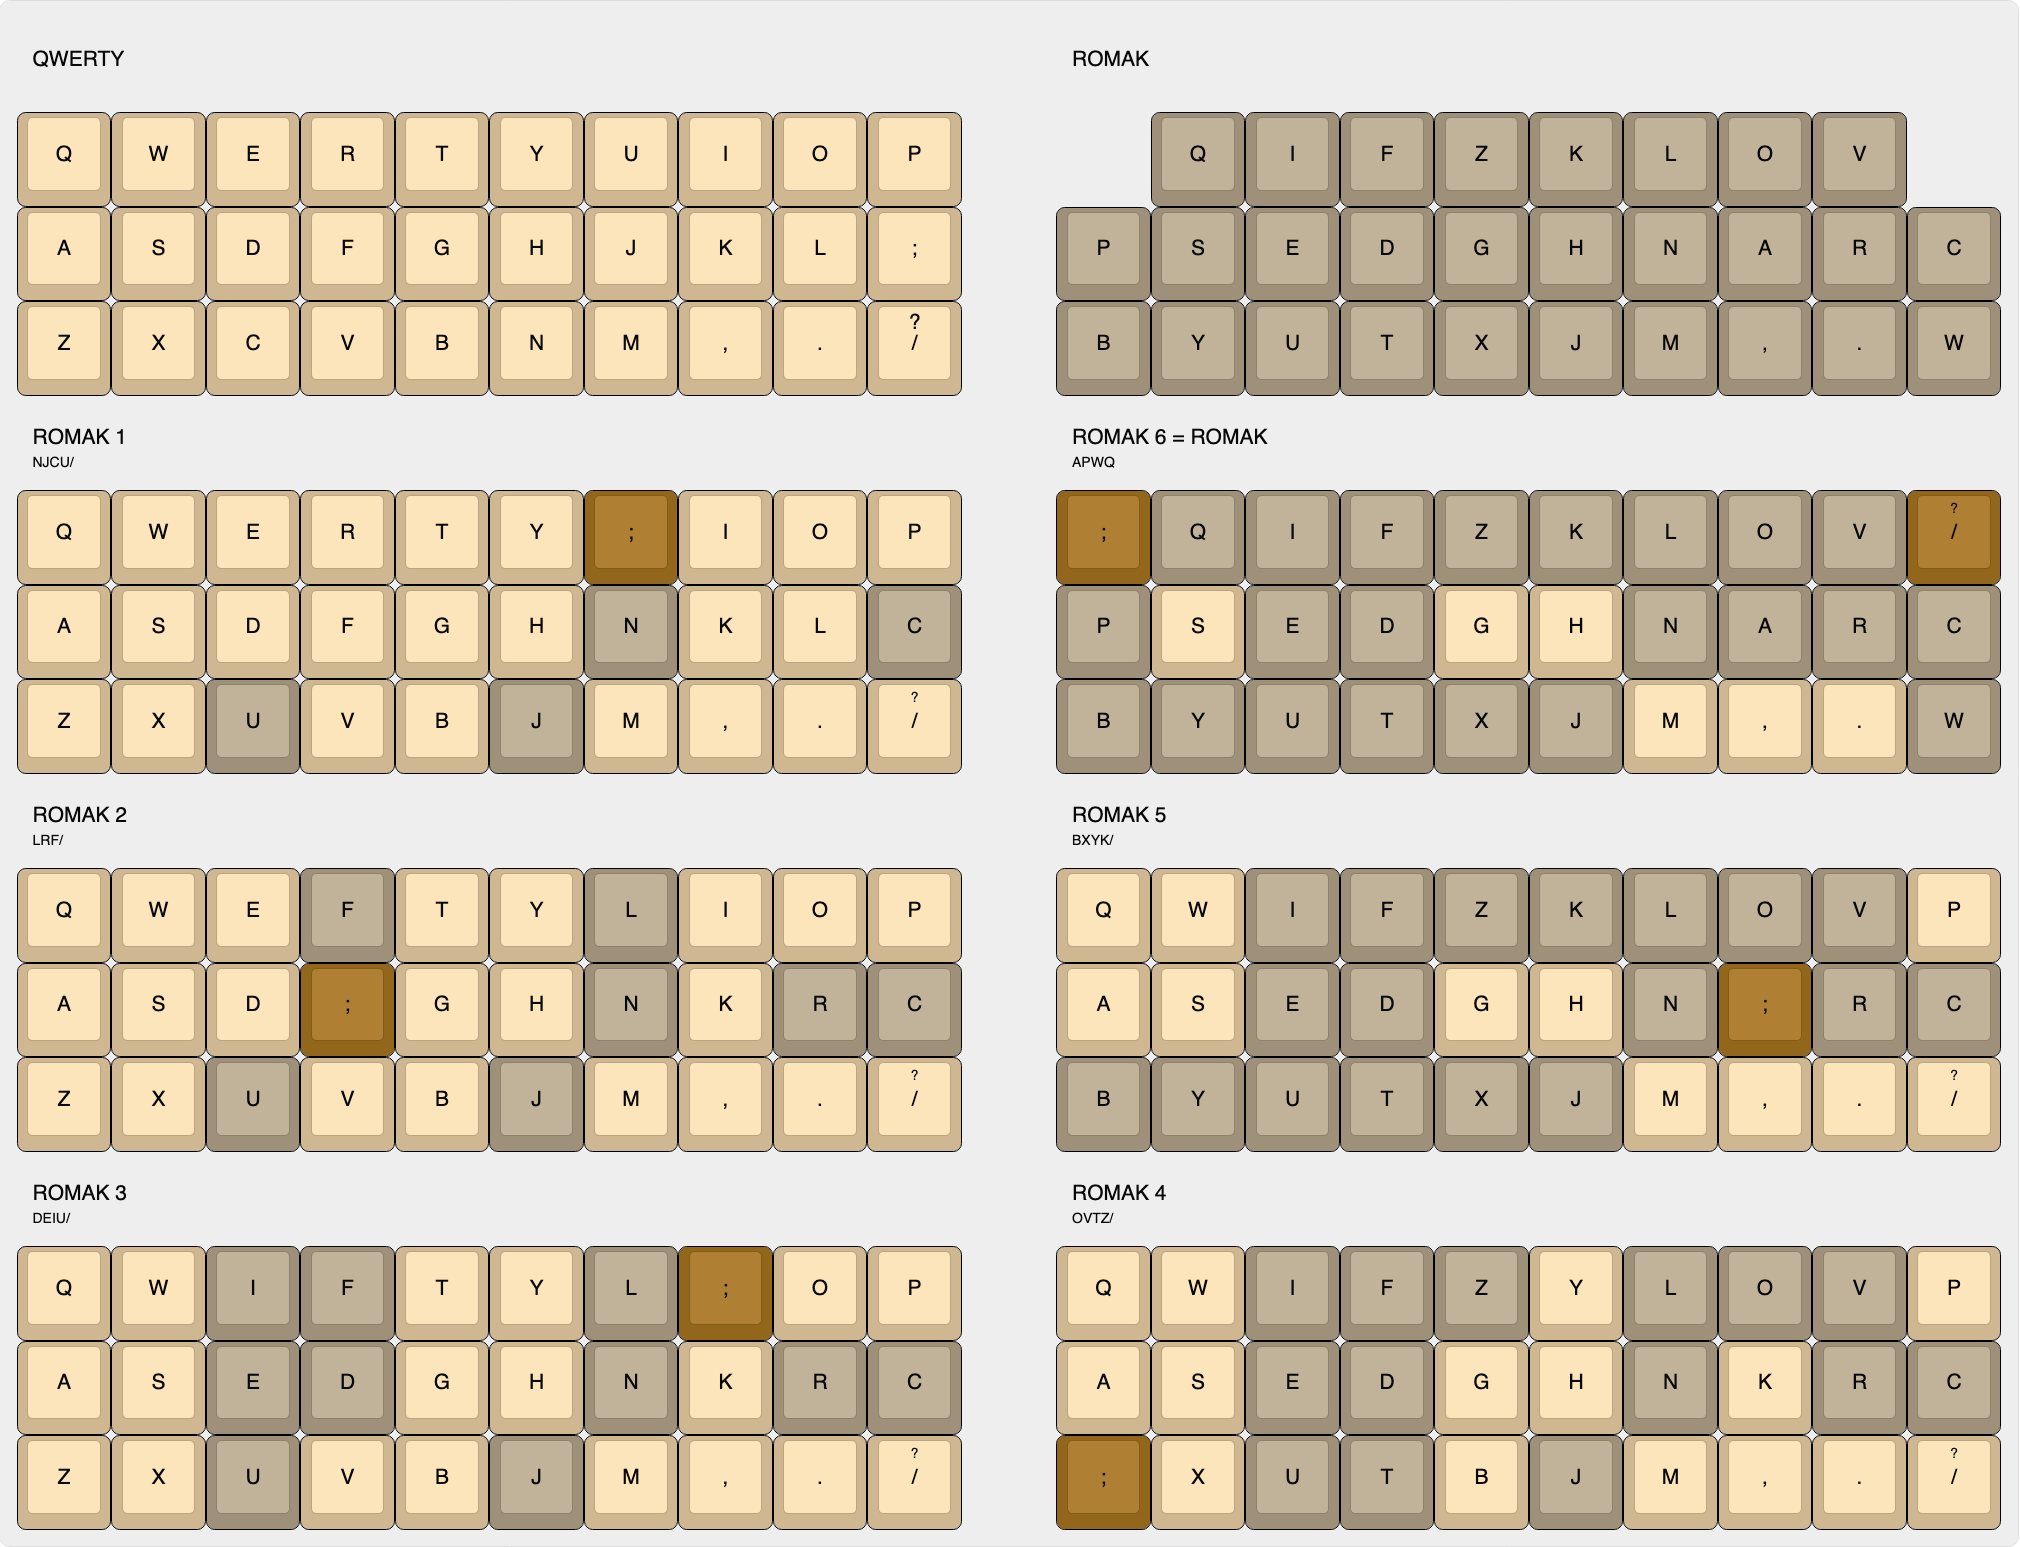
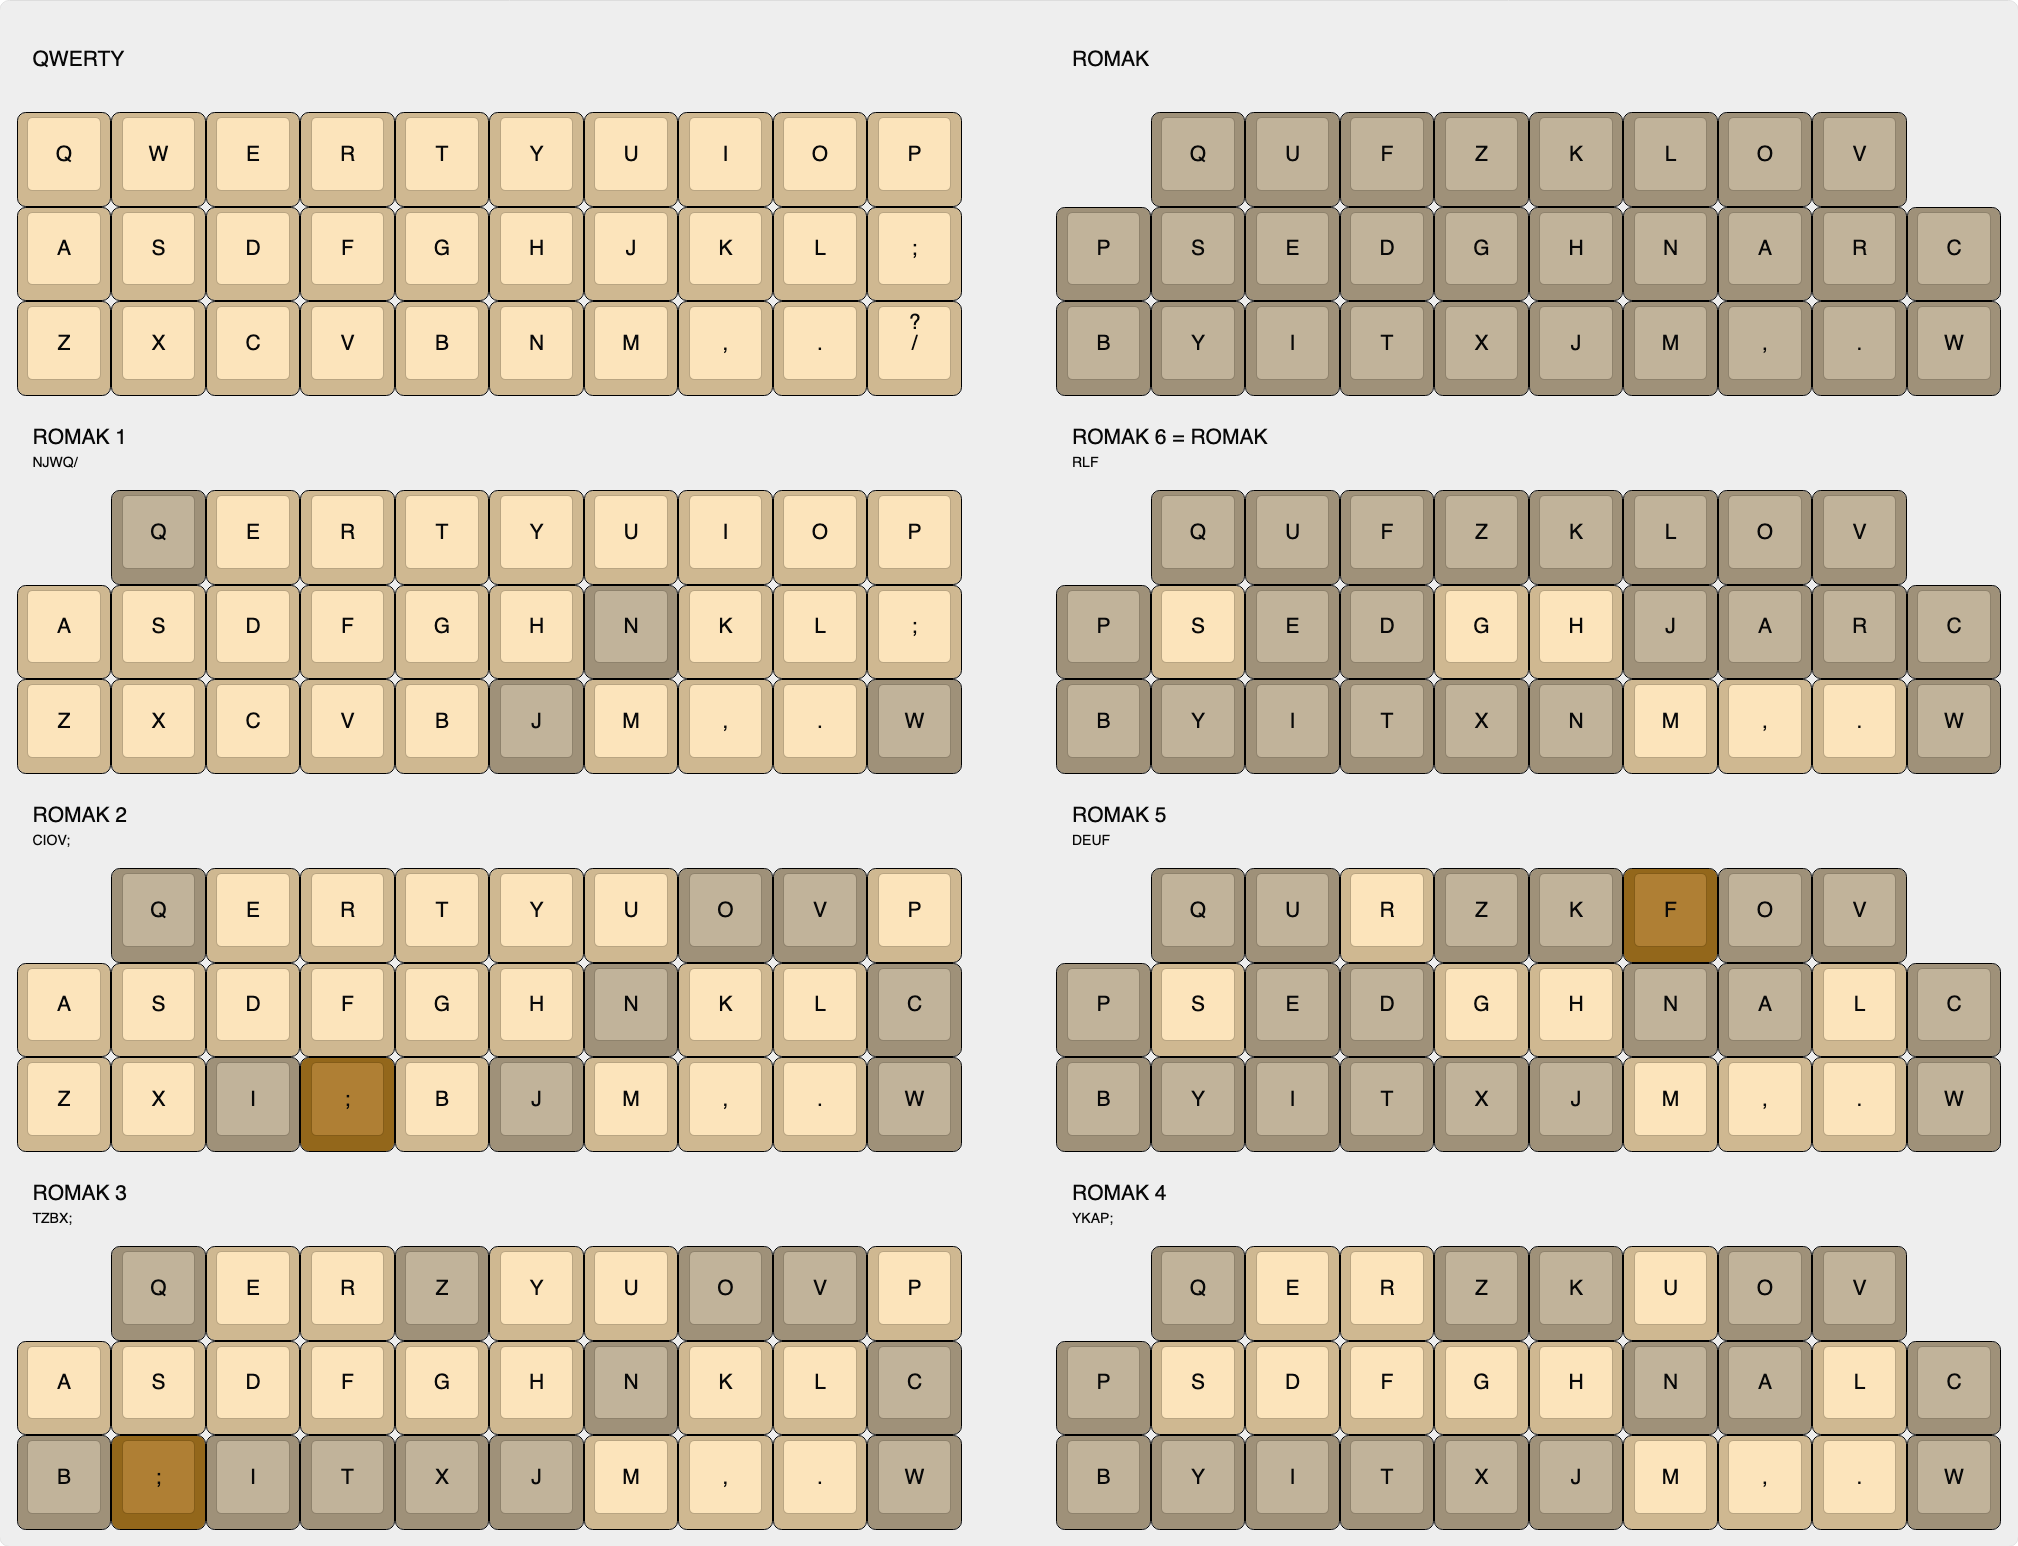
move quor towards Romakv2

diff --git a/src/qmk/users/rafaelromao/features/combos.c b/src/qmk/users/rafaelromao/features/combos.c
@@ -43,20 +43,20 @@ const uint16_t PROGMEM r_ng_coes_combo[] = {MC_CR_E, MC_SQ_E, MC_SQ_I, COMBO_END
 
 // Base
 
-const uint16_t PROGMEM l_rom_esc_combo[] = {LOW_SPC, KC_R, KC_Q, COMBO_END};
+const uint16_t PROGMEM l_rom_esc_combo[] = {LOW_SPC, KC_Q, KC_U, COMBO_END};
 const uint16_t PROGMEM l_rom_sal_combo[] = {LOW_SPC, KCF_MAC, LSFTT_S, COMBO_END};
 const uint16_t PROGMEM l_rom_rai_combo[] = {LOW_SPC, LSFTT_S, COMBO_END};
 const uint16_t PROGMEM l_rom_sav_combo[] = {LOW_SPC, LSFTT_S, LCTLT_E, COMBO_END};
-const uint16_t PROGMEM l_rom_usc_combo[] = {KC_Y, KC_U, COMBO_END};
+const uint16_t PROGMEM l_rom_usc_combo[] = {KC_X, KC_Y, COMBO_END};
 const uint16_t PROGMEM l_rom_pas_combo[] = {LOW_SPC, LCTLT_E, LALTT_D, COMBO_END};
-const uint16_t PROGMEM l_rom_und_combo[] = {LOW_SPC, KC_B, KC_Y, COMBO_END};
+const uint16_t PROGMEM l_rom_und_combo[] = {LOW_SPC, KC_B, KC_X, COMBO_END};
 const uint16_t PROGMEM l_rom_cop_combo[] = {LOW_SPC, KC_U, LGUIT_T, COMBO_END};
 
-const uint16_t PROGMEM r_rom_tab_combo[] = {RAI_BSP, KC_X, KC_I, COMBO_END};
+const uint16_t PROGMEM r_rom_tab_combo[] = {RAI_BSP, KC_O, KC_I, COMBO_END};
 const uint16_t PROGMEM r_rom_pas_combo[] = {RAI_BSP, RALTT_N, RCTLT_A, COMBO_END};
-const uint16_t PROGMEM r_rom_ent_combo[] = {RAI_BSP, RCTLT_A, RSFTT_O, COMBO_END};
-const uint16_t PROGMEM r_rom_low_combo[] = {RAI_BSP, RSFTT_O, COMBO_END};
-const uint16_t PROGMEM r_rom_ful_combo[] = {RAI_BSP, RSFTT_O, KCC_MAC, COMBO_END};
+const uint16_t PROGMEM r_rom_ent_combo[] = {RAI_BSP, RCTLT_A, RSFTT_R, COMBO_END};
+const uint16_t PROGMEM r_rom_low_combo[] = {RAI_BSP, RSFTT_R, COMBO_END};
+const uint16_t PROGMEM r_rom_ful_combo[] = {RAI_BSP, RSFTT_R, KCC_MAC, COMBO_END};
 const uint16_t PROGMEM r_rom_cop_combo[] = {RAI_BSP, RGUIT_M, TD_COMM, COMBO_END};
 const uint16_t PROGMEM r_rom_sco_combo[] = {TD_COMM, TD_DOTD, COMBO_END};
 const uint16_t PROGMEM r_rom_fin_combo[] = {RAI_BSP, TD_DOTD, KC_W, COMBO_END};

diff --git a/src/qmk/users/rafaelromao/definitions/keymap_blocks.h b/src/qmk/users/rafaelromao/definitions/keymap_blocks.h
@@ -5,13 +5,13 @@
 
 // clang-format off
 
-#define ___________________ROMAK_L1____________________ XXXXXXX , KC_R    , KC_Q    , KC_P    , KC_Z
+#define ___________________ROMAK_L1____________________ XXXXXXX , KC_Q    , KC_U    , KC_P    , KC_Z
 #define ___________________ROMAK_L2____________________ KCF_MAC , LSFTT_S , LCTLT_E , LALTT_D , KC_G
-#define ___________________ROMAK_L3____________________ KC_B    , KC_Y    , KC_U    , LGUIT_T , KC_V
+#define ___________________ROMAK_L3____________________ KC_B    , KC_X    , KC_Y    , LGUIT_T , KC_V
 #define ____ROMAK_L4_____                                                             NAV_NG  , LOW_SPC
 
-#define ___________________ROMAK_R1____________________ KC_K    , KC_L    , KC_X    , KC_I    , XXXXXXX
-#define ___________________ROMAK_R2____________________ KC_H    , RALTT_N , RCTLT_A , RSFTT_O , KCC_MAC
+#define ___________________ROMAK_R1____________________ KC_K    , KC_L    , KC_O    , KC_I    , XXXXXXX
+#define ___________________ROMAK_R2____________________ KC_H    , RALTT_N , RCTLT_A , RSFTT_R , KCC_MAC
 #define ___________________ROMAK_R3____________________ KC_J    , RGUIT_M , TD_COMM , TD_DOTD , KC_W
 #define ____ROMAK_R4_____                               RAI_BSP , MED_SFT
 

diff --git a/src/qmk/users/rafaelromao/definitions/keycodes.h b/src/qmk/users/rafaelromao/definitions/keycodes.h
@@ -86,7 +86,7 @@ enum {
 
 #define LSFTT_S LSFT_T(KC_S)
 #define RSFTT_L RSFT_T(KC_L)
-#define RSFTT_O RSFT_T(KC_O)
+#define RSFTT_R RSFT_T(KC_R)
 #define SF_F6 LSFT_T(KC_F6)
 #define SF_6 RSFT_T(KC_6)
 
